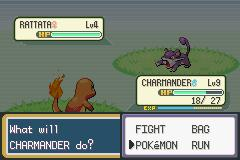
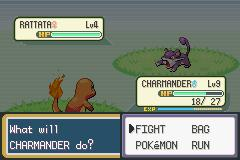
working memory agent

diff --git a/gemini-multimodal-playground/standalone/run_step_memory.py b/gemini-multimodal-playground/standalone/run_step_memory.py
@@ -257,8 +257,8 @@ try:
         # Prepare messages for Gemini to keep context short
         ## OK, lets try and update the init_prompt
         if turn%10 == 0:
-            init_message = game_memory.get_updated_prompt()
-            print(past)
+            init_message = game_memory.get_updated_prompt(init_message,GAME_GOAL)
+            print(init_message)
         messages = init_message.copy() 
         memory_summary = game_memory.generate_summary()
         print(f"Memory Summary:\n{memory_summary}")

diff --git a/gemini-multimodal-playground/standalone/gamememory.py b/gemini-multimodal-playground/standalone/gamememory.py
@@ -70,9 +70,10 @@ class Neo4jMemory:
 
         return summary
     
-    def get_updated_prompt(self):
+    def get_updated_prompt(self,old_prompt,session_goal):
         summary = self.recent_turns_summary()
-        return summary
+        old_prompt['content'] = self.gemini_critique(summary,old_prompt,session_goal)
+        return old_prompt
     
     def init_db(self):
         """Initialize the database schema"""

diff --git a/gemini-multimodal-playground/standalone/game_progress/progress_summary_20250401_220626.md b/gemini-multimodal-playground/standalone/game_progress/progress_summary_20250401_220626.md
@@ -1,0 +1,39 @@
+# Pokémon Game Progress Summary
+
+**Generated on:** 2025-04-01 22:06:29
+
+**Current Goal:** head north and find the pokemart with blue roof in viridian city
+
+# Pokémon FireRed/LeafGreen Progress Report
+
+**Date:** October 26, 2023
+
+**Game Version:** FireRed/LeafGreen
+
+**Current Goal:** Locate the blue-roofed Poké Mart in Viridian City.
+
+## Current Status
+
+*   **Location:** Currently engaged in a battle.
+*   **Party:** Charmander (Level 9, 18/27 HP).
+*   **Objective Status:** Still attempting to execute battle commands after multiple failed attempts.
+
+## Recent Actions
+
+*   Multiple turns spent navigating the Pokémon selection and information screens during battle.
+*   Repeatedly tried to select "CANCEL" on various screens (Pokémon info, Pokémon selection) to return to the battle interface.
+*   Re-entered battle against a Rattata with Charmander.
+
+## Key Discoveries and Challenges
+
+*   **Repetitive Screen Errors:** Significant difficulty experienced in exiting the Pokémon information and selection screens during battle. Likely caused by control confusion or input errors.
+*   **Battle Re-Engagement:** Despite the navigation difficulties, the player has re-entered the battle with the Rattata.
+*   **Charmander's HP:** Charmander's health is below maximum, indicating damage taken in the battle.
+*   **Understanding the UI:** There appears to be a disconnect between the intended player actions and the resulting in-game actions. We need to double check that our input commands are correct and that we are correctly interpreting the in-game prompts.
+
+## Next Objectives
+
+1.  **Successfully Execute Battle Commands:** Carefully execute the correct sequence of commands to select "FIGHT" and choose an attack.
+2.  **Defeat Rattata:** Win the current battle.
+3.  **Navigate to Viridian City:** After the battle, continue north towards Viridian City.
+4.  **Locate Blue-Roof Poké Mart:** Upon arrival in Viridian City, search for the Poké Mart with a blue roof.
